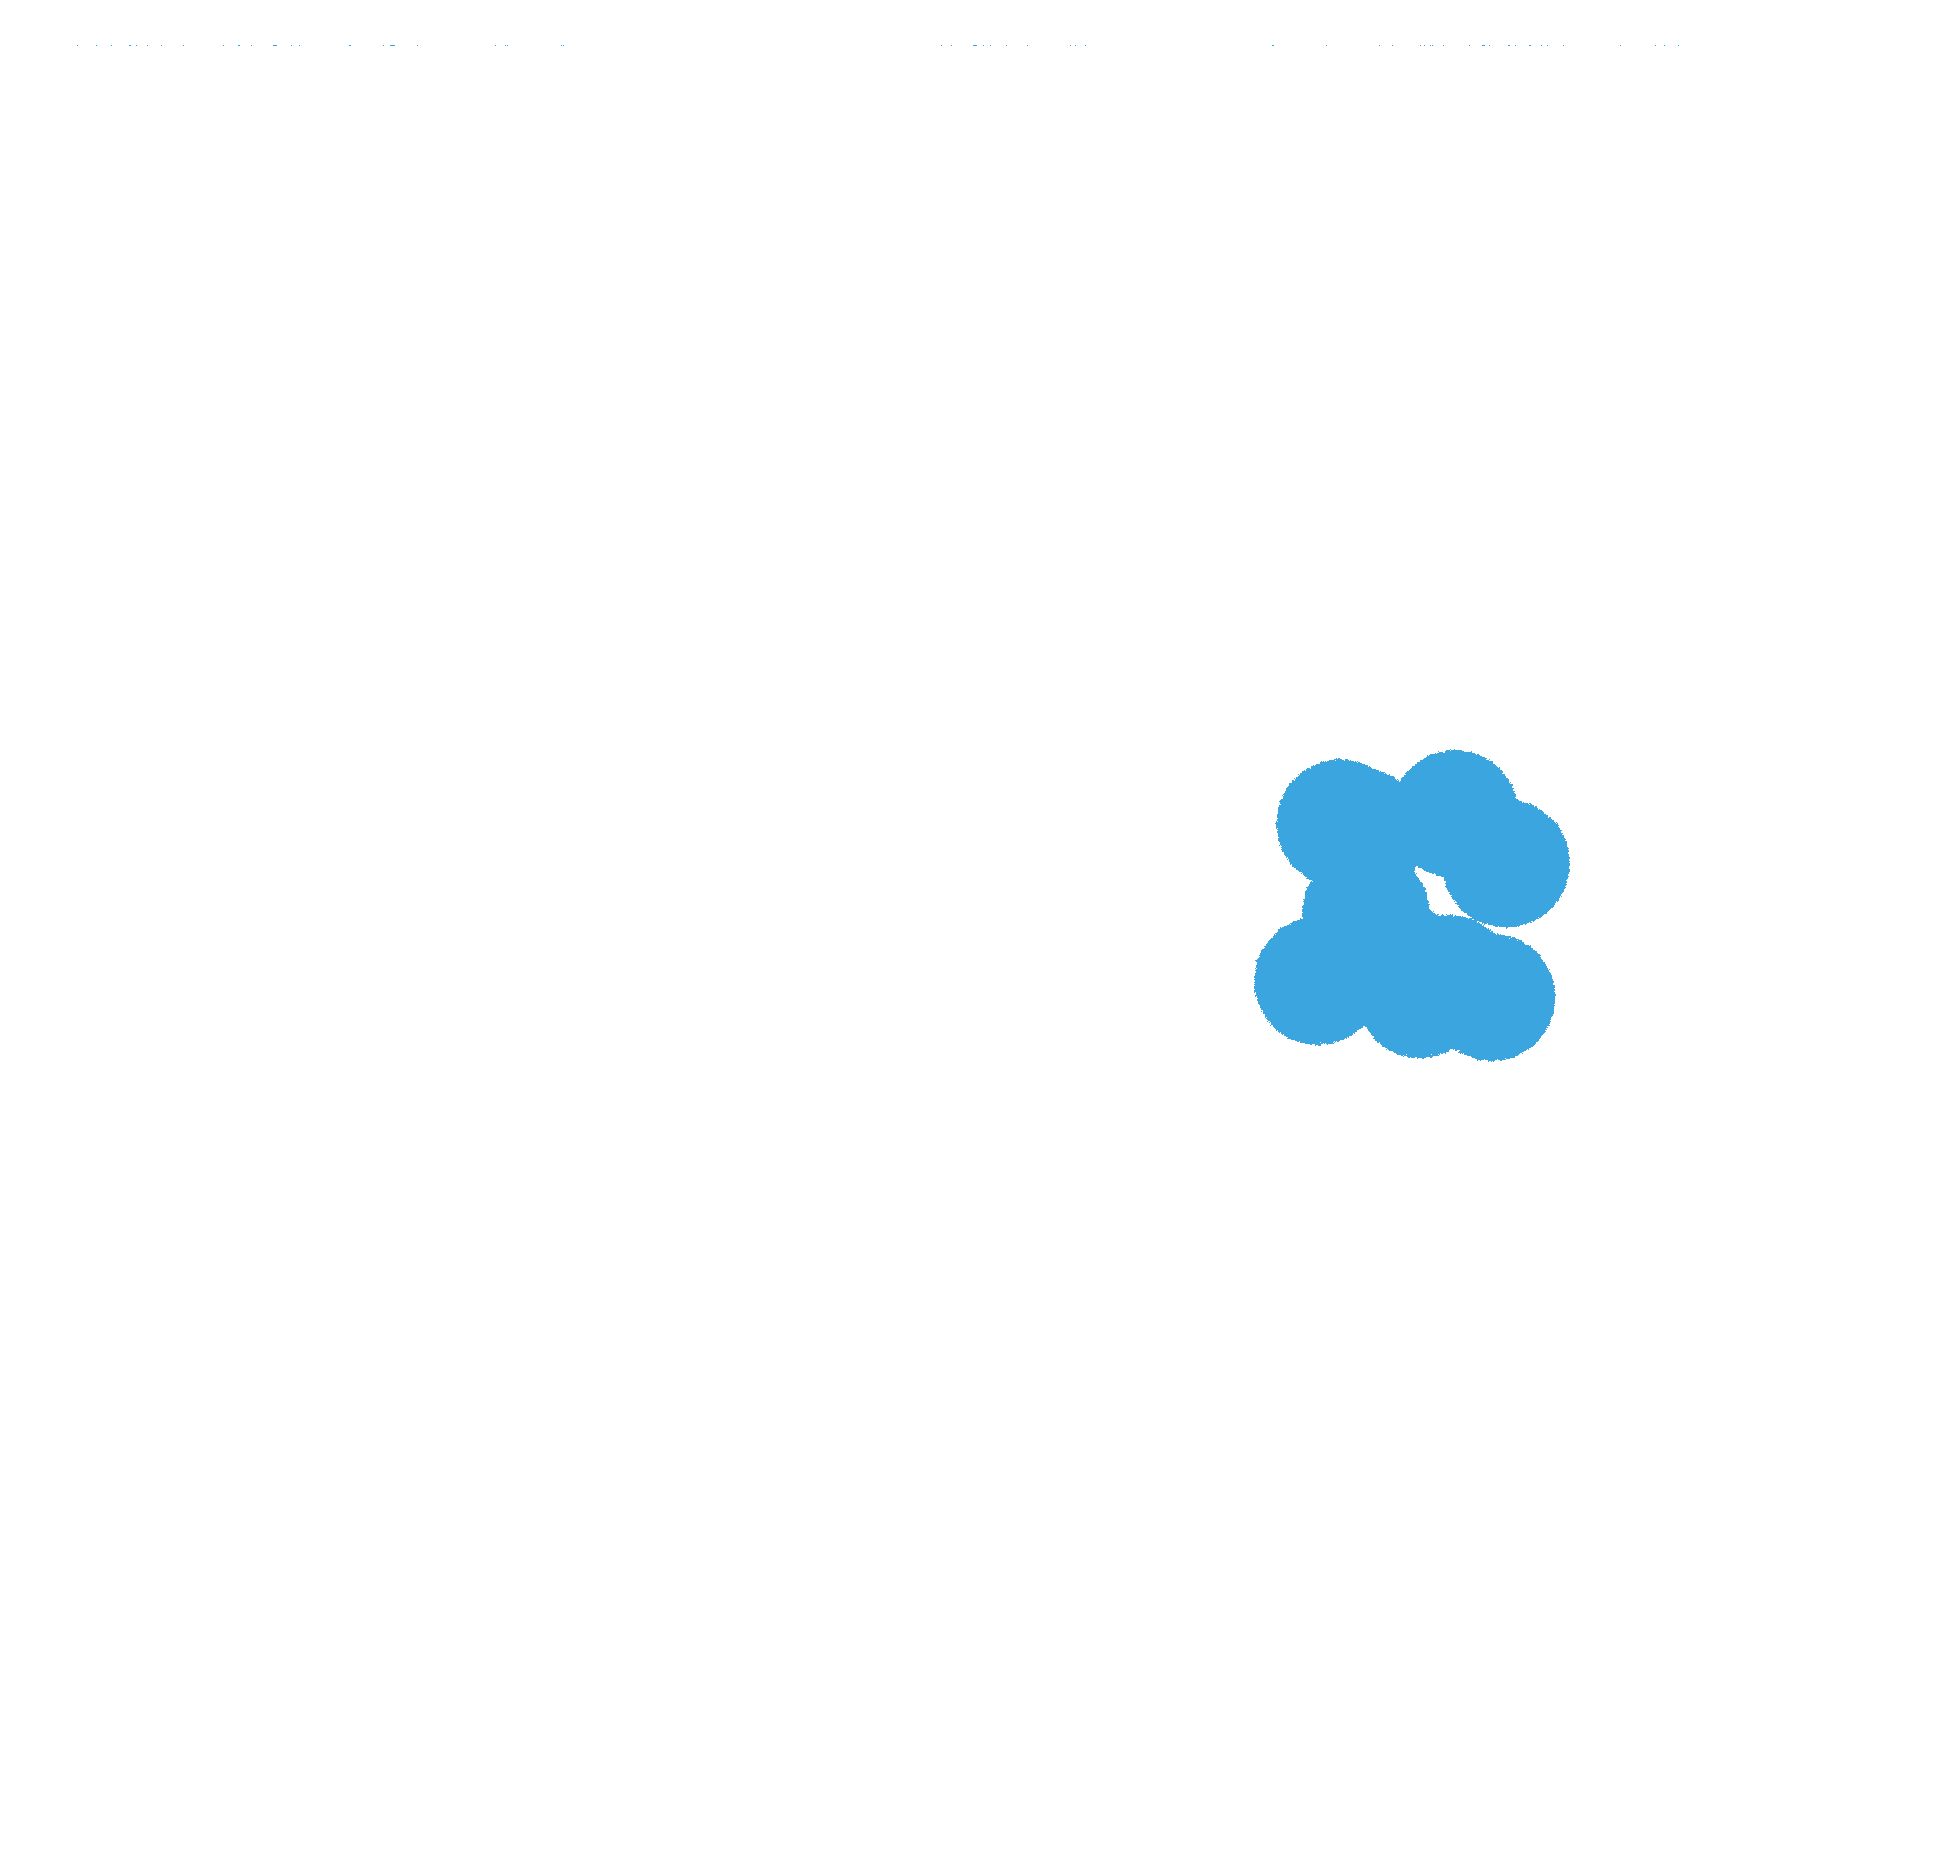
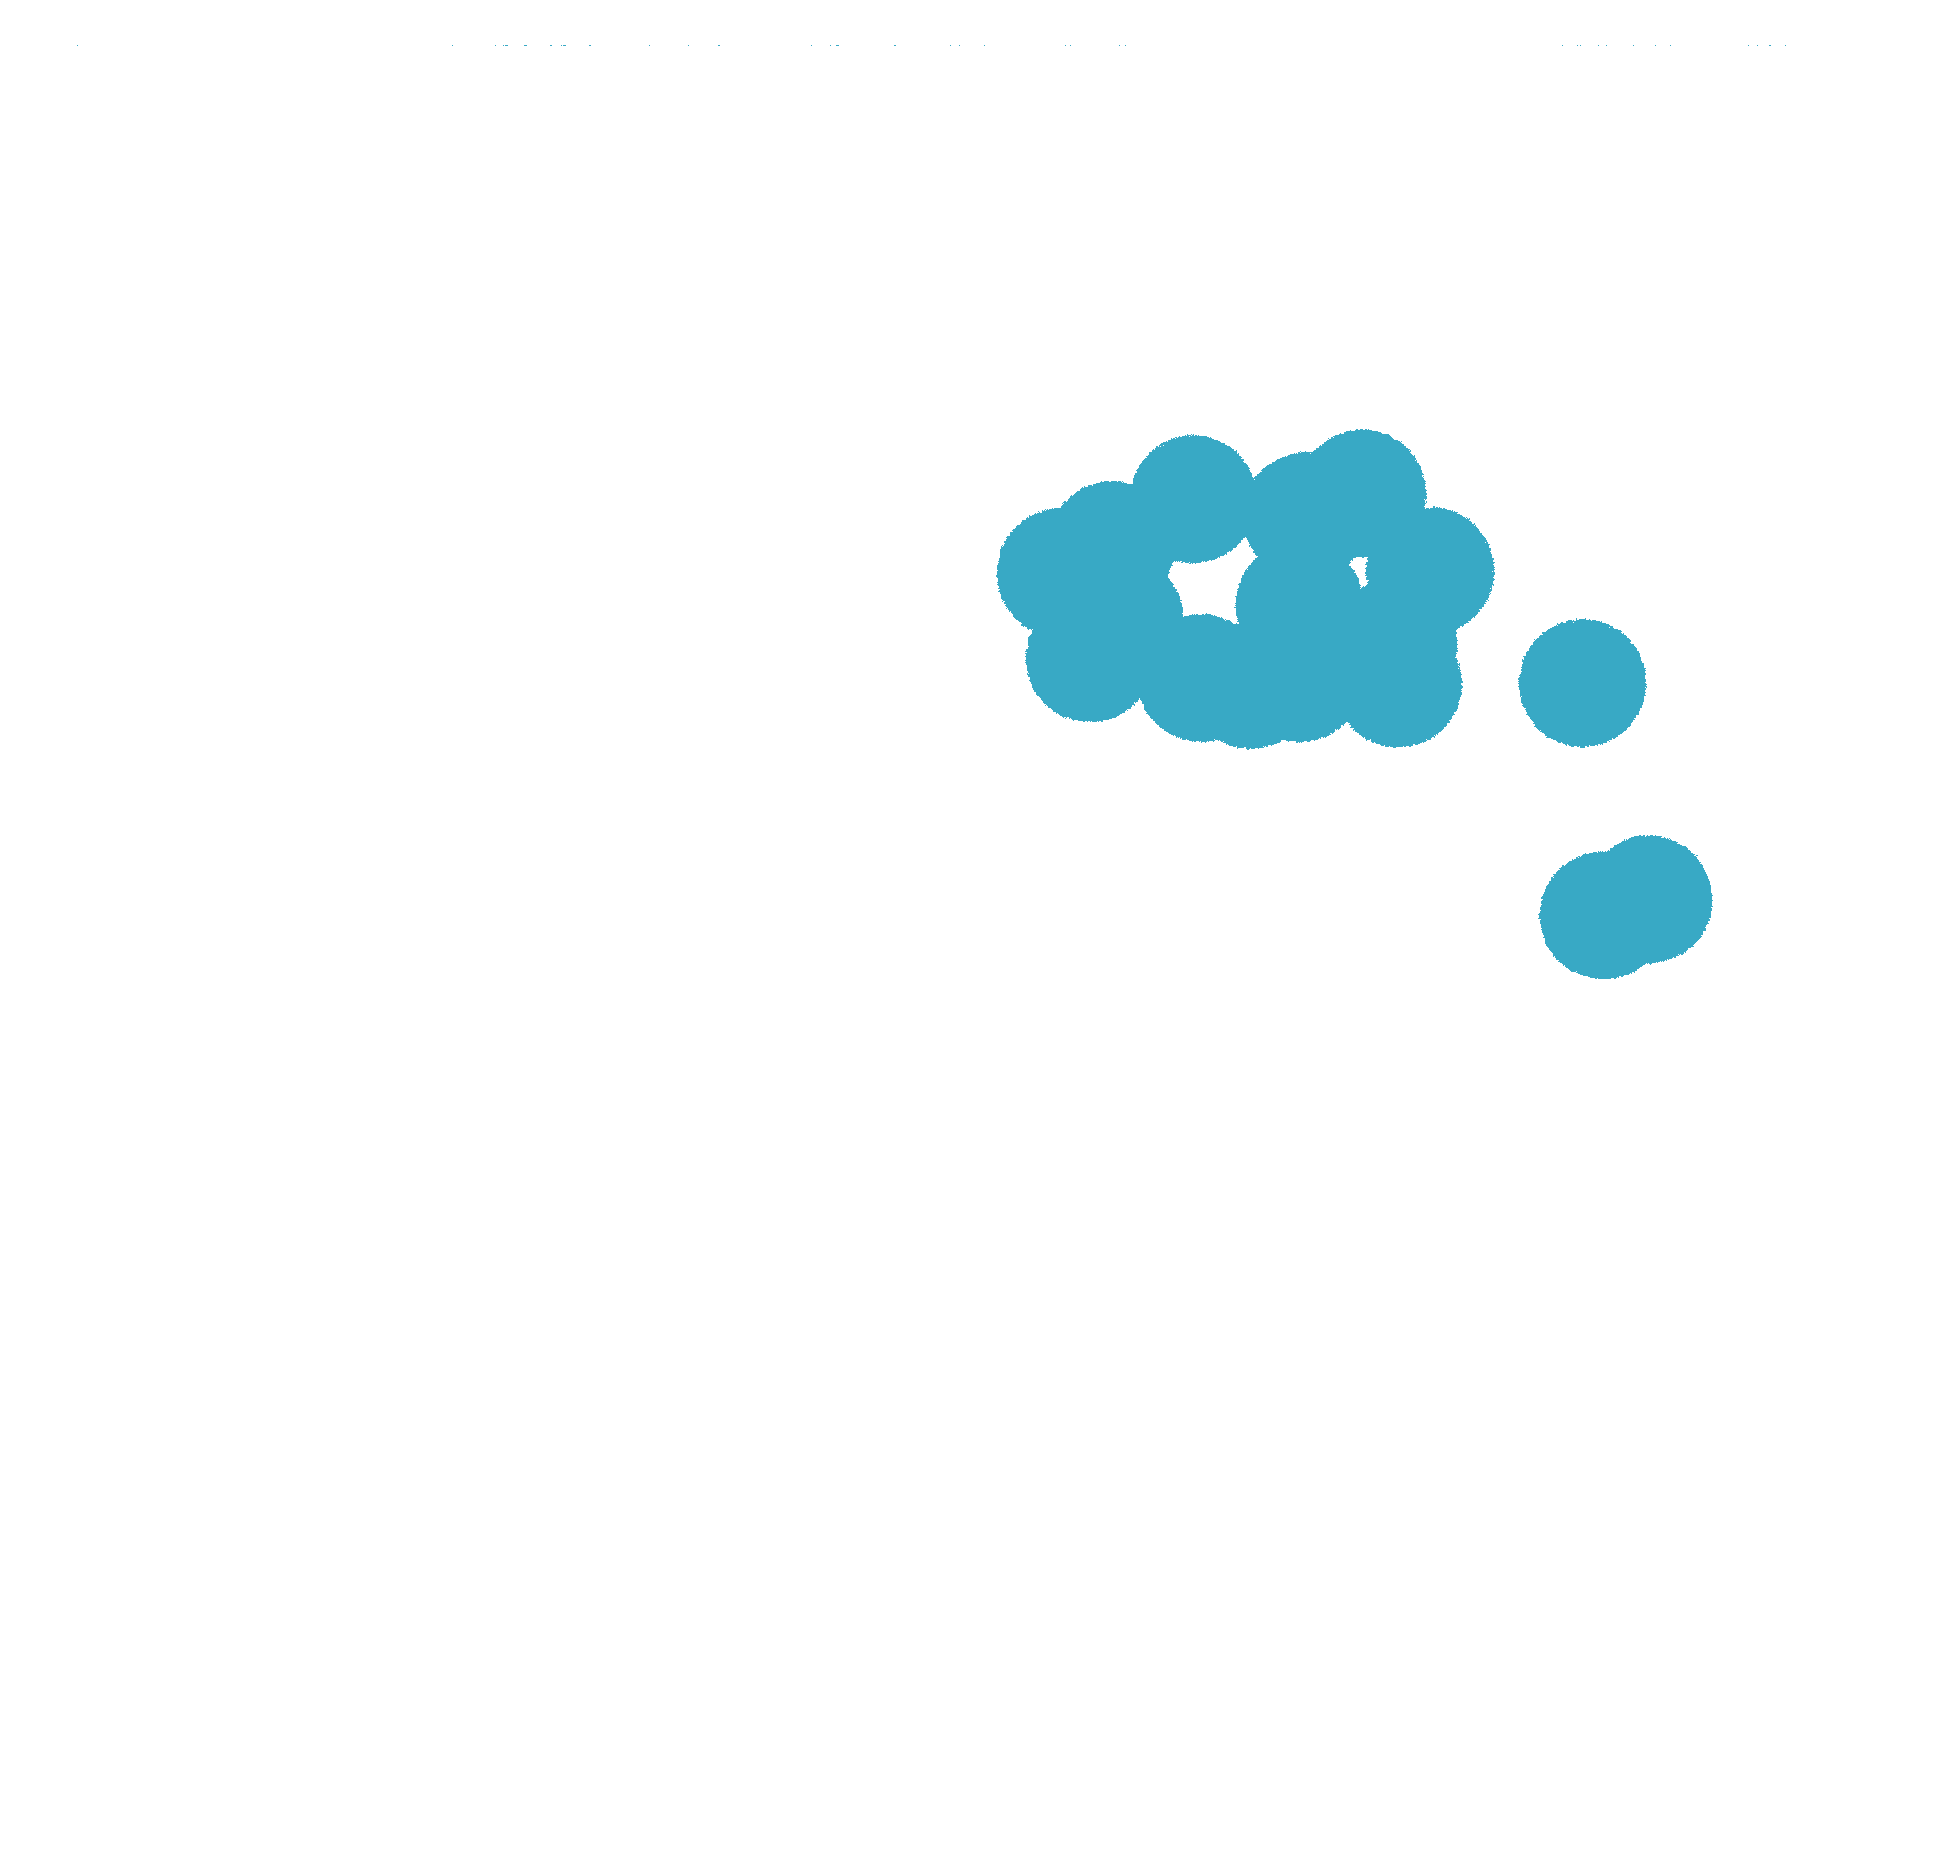
modify

Changed region(s): [[0.4948, 0.2183, 0.8969, 0.5925]]

diff --git a/052/052.html b/052/052.html
@@ -2,7 +2,7 @@
 <meta charset="UTF-8"> 
 <meta name="viewport" content="width=device-width, initial-scale=1.0">
 <link href="https://fonts.googleapis.com/css2?family=Roboto:wght@400;700&display=swap" rel="stylesheet">
-<title>灰色の墓地</title> 
+<title>アンゲロスの共同墓地1階</title> 
 <style> 
   body {
             font-family: 'Roboto', sans-serif;
@@ -59,8 +59,8 @@
     }
     /* チェックボックスがチェックされたときのスタイル */
     #checkbox3:checked {
-        background-color: #c39532;
-        border-color: #c39532;
+        background-color: #dc8932;
+        border-color: #dc8932;
     }
     /* チェックボックスがチェックされたときのスタイル */
     #checkbox4:checked {
@@ -69,8 +69,8 @@
     }
     /* チェックボックスがチェックされたときのスタイル */
     #checkbox5:checked {
-        background-color: #77ab31;
-        border-color: #77ab31;
+        background-color: #97a431;
+        border-color: #97a431;
     }
     /* チェックボックスがチェックされたときのスタイル */
     #checkbox6:checked {
@@ -79,8 +79,8 @@
     }
     /* チェックボックスがチェックされたときのスタイル */
     #checkbox7:checked {
-        background-color: #35ae93;
-        border-color: #35ae93;
+        background-color: #33b07a;
+        border-color: #33b07a;
     }
     /* チェックボックスがチェックされたときのスタイル */
     #checkbox8:checked {
@@ -89,26 +89,31 @@
     }
     /* チェックボックスがチェックされたときのスタイル */
     #checkbox9:checked {
+        background-color: #37abb4;
+        border-color: #37abb4;
+    }
+    /* チェックボックスがチェックされたときのスタイル */
+    #checkbox10:checked {
         background-color: #38a9c5;
         border-color: #38a9c5;
     }
     /* チェックボックスがチェックされたときのスタイル */
-    #checkbox10:checked {
-        background-color: #3aa5df;
-        border-color: #3aa5df;
+    #checkbox11:checked {
+        background-color: #6e9bf4;
+        border-color: #6e9bf4;
     }
     /* チェックボックスがチェックされたときのスタイル */
-    #checkbox11:checked {
+    #checkbox12:checked {
         background-color: #a48cf4;
         border-color: #a48cf4;
     }
     /* チェックボックスがチェックされたときのスタイル */
-    #checkbox12:checked {
-        background-color: #cc7af4;
-        border-color: #cc7af4;
+    #checkbox13:checked {
+        background-color: #f45cf2;
+        border-color: #f45cf2;
     }
     /* チェックボックスがチェックされたときのスタイル */
-    #checkbox13:checked {
+    #checkbox14:checked {
         background-color: #f565cc;
         border-color: #f565cc;
     }
@@ -131,7 +136,7 @@
 </style> 
 </head> 
 <body>
-<h1 class="title">灰色の墓地</h1>
+<h1 class="title">アンゲロスの共同墓地1階</h1>
 <div class="container"><div class="boxcontainer" id="boxcontainer1">
 
     <div id="checkboxcontainertop" class="checkboxcontainer">
@@ -206,6 +211,11 @@
     <input type="checkbox" id="checkbox13" class="styled-checkbox">
     <label for="checkbox13">汚染された剣士</label>
     </div>
+
+    <div id="checkboxcontainertop" class="checkboxcontainer">
+    <input type="checkbox" id="checkbox14" class="styled-checkbox">
+    <label for="checkbox14">墓地のコウモリ</label>
+    </div>
 </div>
 <div id="canvas-container"> <canvas id="canvas0" style="width:100%"></canvas><canvas id="canvas1" style="width:100%"></canvas>
 <canvas id="canvas2" style="width:100%"></canvas>
@@ -220,6 +230,7 @@
 <canvas id="canvas11" style="width:100%"></canvas>
 <canvas id="canvas12" style="width:100%"></canvas>
 <canvas id="canvas13" style="width:100%"></canvas>
+<canvas id="canvas14" style="width:100%"></canvas>
 </div>
 </div>
 <script>
@@ -495,6 +506,24 @@
             // チェックが外れた時はcanvasをクリアする
             context13.clearRect(0, 0, canvas13.width, canvas13.height);
         }});
+        const canvas14 = document.getElementById("canvas14");
+        const context14 = canvas14.getContext("2d");
+        const imagePath14 = "./mask/014.PNG";
+        const img14 = new Image();
+        document.getElementById("checkbox14").addEventListener("change", function() { 
+        
+        if (this.checked) { 
+            
+            img14.onload = function() { 
+                updateCanvasSize(canvas14, img14);
+                context14.globalAlpha = 0.4; // 透過度設定
+                drawImageScaled(img14, canvas14, context14);
+            };
+            img14.src = imagePath14;
+        } else { 
+            // チェックが外れた時はcanvasをクリアする
+            context14.clearRect(0, 0, canvas14.width, canvas14.height);
+        }});
 // ウィンドウサイズが変更されたときにcanvasのサイズを更新し、画像を再描画 
 window.addEventListener("resize", function() {
     updateCanvasSize(canvas0, img0); 
@@ -563,4 +592,9 @@ window.addEventListener("resize", function() {
     chckbx = document.getElementById("checkbox13");
     if (chckbx.checked){
     context13.globalAlpha = 0.4; // 透過度設定
-    drawImageScaled(img13, canvas13, context13); }});</script></body></html>
+    drawImageScaled(img13, canvas13, context13); }
+    updateCanvasSize(canvas14, img14);
+    chckbx = document.getElementById("checkbox14");
+    if (chckbx.checked){
+    context14.globalAlpha = 0.4; // 透過度設定
+    drawImageScaled(img14, canvas14, context14); }});</script></body></html>
